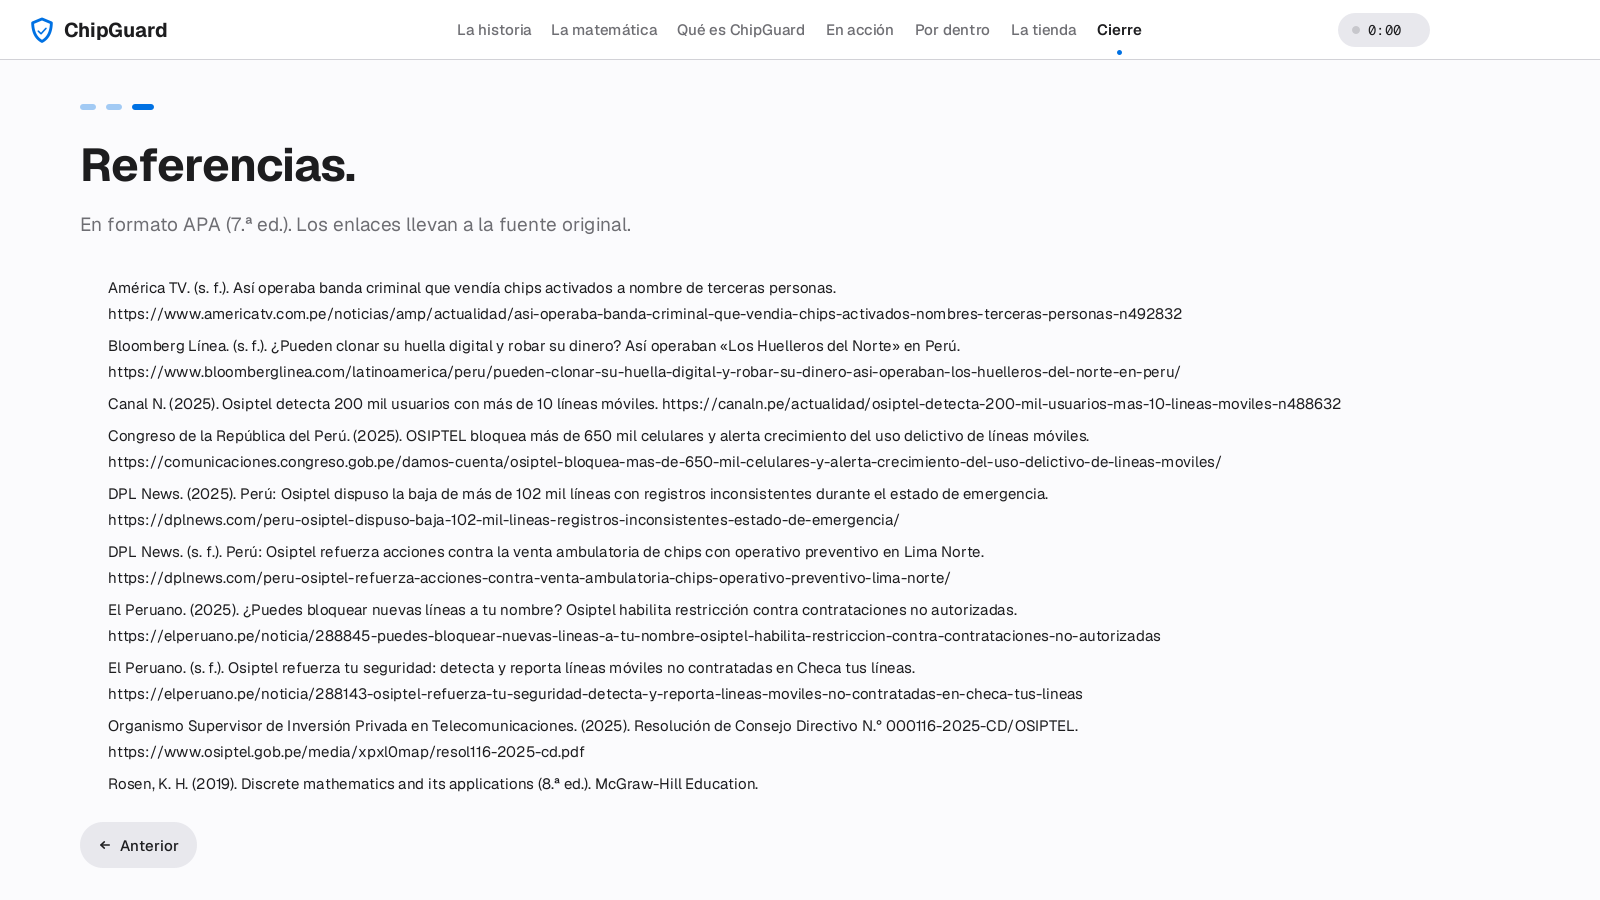
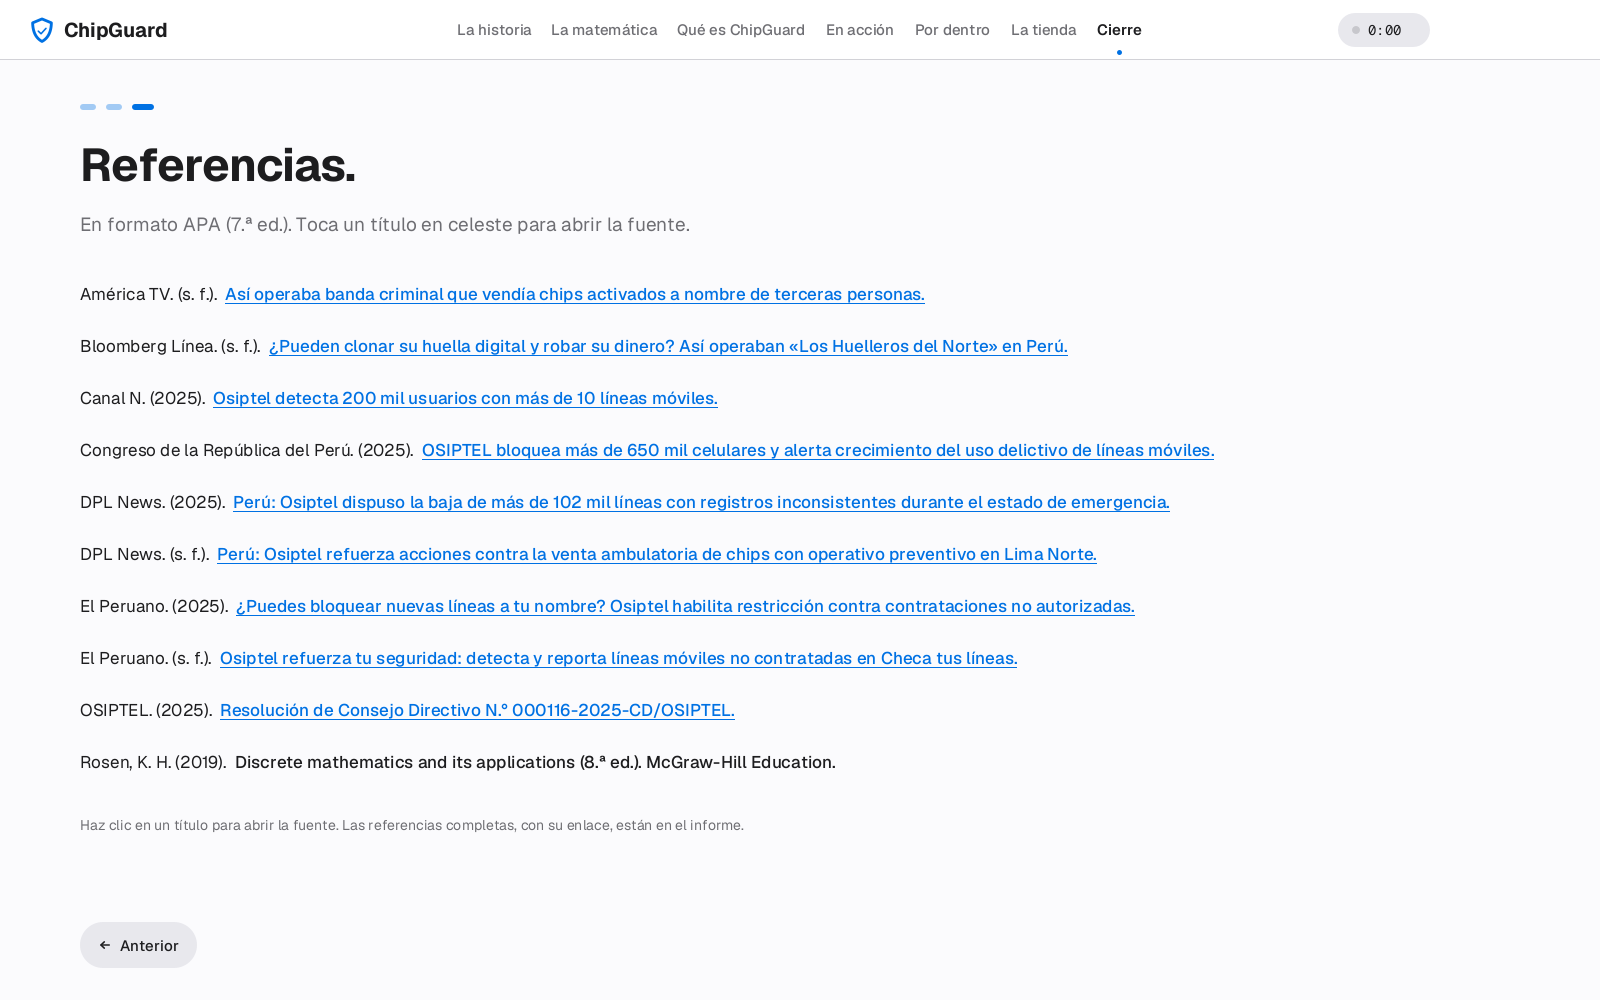
fix: referencias con título clicable en celeste, sin URLs largas y sin desbordar la pantalla

diff --git a/src/simuchip/ui/PanelCierre.java b/src/simuchip/ui/PanelCierre.java
@@ -14,7 +14,7 @@ public final class PanelCierre extends PanelEscenas {
             new Escena("¿Ya revisaste tus líneas?",
                 "Saca tu celular ahora: busca «Checa tus líneas» de OSIPTEL y pon tu DNI. Si aparece un chip que no es "
                     + "tuyo, repórtalo ahí mismo. Hoy lo haces a mano; con ChipGuard te avisaría solo."),
-            new Escena("Referencias.", "En formato APA (7.ª ed.). Los enlaces llevan a la fuente original.", true)
+            new Escena("Referencias.", "En formato APA (7.ª ed.). Toca un título en celeste para abrir la fuente.", true)
         ));
     }
 
@@ -65,25 +65,123 @@ public final class PanelCierre extends PanelEscenas {
         Tema.textoCentrado(g, "las líneas que el registro manda hacia tu DNI", a.getCenterX(), a.getCenterY() + 70);
     }
 
-    private void fuentes(Graphics2D g, Rectangle a, double t) {
-        String[] lista = {
-            "América TV. (s. f.). Así operaba banda criminal que vendía chips activados a nombre de terceras personas. https://www.americatv.com.pe/noticias/amp/actualidad/asi-operaba-banda-criminal-que-vendia-chips-activados-nombres-terceras-personas-n492832",
-            "Bloomberg Línea. (s. f.). ¿Pueden clonar su huella digital y robar su dinero? Así operaban «Los Huelleros del Norte» en Perú. https://www.bloomberglinea.com/latinoamerica/peru/pueden-clonar-su-huella-digital-y-robar-su-dinero-asi-operaban-los-huelleros-del-norte-en-peru/",
-            "Canal N. (2025). Osiptel detecta 200 mil usuarios con más de 10 líneas móviles. https://canaln.pe/actualidad/osiptel-detecta-200-mil-usuarios-mas-10-lineas-moviles-n488632",
-            "Congreso de la República del Perú. (2025). OSIPTEL bloquea más de 650 mil celulares y alerta crecimiento del uso delictivo de líneas móviles. https://comunicaciones.congreso.gob.pe/damos-cuenta/osiptel-bloquea-mas-de-650-mil-celulares-y-alerta-crecimiento-del-uso-delictivo-de-lineas-moviles/",
-            "DPL News. (2025). Perú: Osiptel dispuso la baja de más de 102 mil líneas con registros inconsistentes durante el estado de emergencia. https://dplnews.com/peru-osiptel-dispuso-baja-102-mil-lineas-registros-inconsistentes-estado-de-emergencia/",
-            "DPL News. (s. f.). Perú: Osiptel refuerza acciones contra la venta ambulatoria de chips con operativo preventivo en Lima Norte. https://dplnews.com/peru-osiptel-refuerza-acciones-contra-venta-ambulatoria-chips-operativo-preventivo-lima-norte/",
-            "El Peruano. (2025). ¿Puedes bloquear nuevas líneas a tu nombre? Osiptel habilita restricción contra contrataciones no autorizadas. https://elperuano.pe/noticia/288845-puedes-bloquear-nuevas-lineas-a-tu-nombre-osiptel-habilita-restriccion-contra-contrataciones-no-autorizadas",
-            "El Peruano. (s. f.). Osiptel refuerza tu seguridad: detecta y reporta líneas móviles no contratadas en Checa tus líneas. https://elperuano.pe/noticia/288143-osiptel-refuerza-tu-seguridad-detecta-y-reporta-lineas-moviles-no-contratadas-en-checa-tus-lineas",
-            "Organismo Supervisor de Inversión Privada en Telecomunicaciones. (2025). Resolución de Consejo Directivo N.° 000116-2025-CD/OSIPTEL. https://www.osiptel.gob.pe/media/xpxl0map/resol116-2025-cd.pdf",
-            "Rosen, K. H. (2019). Discrete mathematics and its applications (8.ª ed.). McGraw-Hill Education."
+    /** Autor y año (APA), título y enlace de cada referencia. */
+    private static final String[][] REFERENCIAS = {
+        {"América TV. (s. f.).", "Así operaba banda criminal que vendía chips activados a nombre de terceras personas.",
+            "https://www.americatv.com.pe/noticias/amp/actualidad/asi-operaba-banda-criminal-que-vendia-chips-activados-nombres-terceras-personas-n492832"},
+        {"Bloomberg Línea. (s. f.).", "¿Pueden clonar su huella digital y robar su dinero? Así operaban «Los Huelleros del Norte» en Perú.",
+            "https://www.bloomberglinea.com/latinoamerica/peru/pueden-clonar-su-huella-digital-y-robar-su-dinero-asi-operaban-los-huelleros-del-norte-en-peru/"},
+        {"Canal N. (2025).", "Osiptel detecta 200 mil usuarios con más de 10 líneas móviles.",
+            "https://canaln.pe/actualidad/osiptel-detecta-200-mil-usuarios-mas-10-lineas-moviles-n488632"},
+        {"Congreso de la República del Perú. (2025).", "OSIPTEL bloquea más de 650 mil celulares y alerta crecimiento del uso delictivo de líneas móviles.",
+            "https://comunicaciones.congreso.gob.pe/damos-cuenta/osiptel-bloquea-mas-de-650-mil-celulares-y-alerta-crecimiento-del-uso-delictivo-de-lineas-moviles/"},
+        {"DPL News. (2025).", "Perú: Osiptel dispuso la baja de más de 102 mil líneas con registros inconsistentes durante el estado de emergencia.",
+            "https://dplnews.com/peru-osiptel-dispuso-baja-102-mil-lineas-registros-inconsistentes-estado-de-emergencia/"},
+        {"DPL News. (s. f.).", "Perú: Osiptel refuerza acciones contra la venta ambulatoria de chips con operativo preventivo en Lima Norte.",
+            "https://dplnews.com/peru-osiptel-refuerza-acciones-contra-venta-ambulatoria-chips-operativo-preventivo-lima-norte/"},
+        {"El Peruano. (2025).", "¿Puedes bloquear nuevas líneas a tu nombre? Osiptel habilita restricción contra contrataciones no autorizadas.",
+            "https://elperuano.pe/noticia/288845-puedes-bloquear-nuevas-lineas-a-tu-nombre-osiptel-habilita-restriccion-contra-contrataciones-no-autorizadas"},
+        {"El Peruano. (s. f.).", "Osiptel refuerza tu seguridad: detecta y reporta líneas móviles no contratadas en Checa tus líneas.",
+            "https://elperuano.pe/noticia/288143-osiptel-refuerza-tu-seguridad-detecta-y-reporta-lineas-moviles-no-contratadas-en-checa-tus-lineas"},
+        {"OSIPTEL. (2025).", "Resolución de Consejo Directivo N.° 000116-2025-CD/OSIPTEL.",
+            "https://www.osiptel.gob.pe/media/xpxl0map/resol116-2025-cd.pdf"},
+        {"Rosen, K. H. (2019).", "Discrete mathematics and its applications (8.ª ed.). McGraw-Hill Education.", null}
+    };
+
+    /** Zonas clicables de los títulos, del último dibujo de la escena de referencias. */
+    private final java.util.List<Rectangle> zonas = new java.util.ArrayList<>();
+    private final java.util.List<String> enlaces = new java.util.ArrayList<>();
+
+    {
+        java.awt.event.MouseAdapter raton = new java.awt.event.MouseAdapter() {
+            @Override
+            public void mousePressed(java.awt.event.MouseEvent e) {
+                String url = enlaceEn(e.getX(), e.getY());
+                if (url != null) {
+                    abrir(url);
+                }
+            }
+
+            @Override
+            public void mouseMoved(java.awt.event.MouseEvent e) {
+                setCursor(java.awt.Cursor.getPredefinedCursor(enlaceEn(e.getX(), e.getY()) != null
+                        ? java.awt.Cursor.HAND_CURSOR : java.awt.Cursor.DEFAULT_CURSOR));
+            }
         };
-        int y = a.y;
-        g.setFont(Tema.letra(Font.PLAIN, 15f));
-        for (int k = 0; k < lista.length; k++) {
-            double p = tramo(t, 0.1 + k * 0.08, 0.4);
-            g.setColor(Tema.conAlfa(Tema.AZUL_NOCHE, (int) (255 * p)));
-            y += Tema.parrafo(g, lista[k], a.x + 28, y, a.width - 28, 1.22f) + 6;
+        addMouseListener(raton);
+        addMouseMotionListener(raton);
+    }
+
+    @Override
+    public void irAEscena(int i) {
+        zonas.clear();
+        enlaces.clear();
+        super.irAEscena(i);
+    }
+
+    private String enlaceEn(int x, int y) {
+        for (int k = 0; k < zonas.size(); k++) {
+            if (zonas.get(k).contains(x, y)) {
+                return enlaces.get(k);
+            }
         }
+        return null;
+    }
+
+    /** Abre el enlace en el navegador; en Linux, si Desktop no puede, usa xdg-open. */
+    private static void abrir(String url) {
+        new Thread(() -> {
+            try {
+                if (java.awt.Desktop.isDesktopSupported()
+                        && java.awt.Desktop.getDesktop().isSupported(java.awt.Desktop.Action.BROWSE)) {
+                    java.awt.Desktop.getDesktop().browse(new java.net.URI(url));
+                } else {
+                    new ProcessBuilder("xdg-open", url).start();
+                }
+            } catch (Exception ex) {
+                try {
+                    new ProcessBuilder("xdg-open", url).start();
+                } catch (java.io.IOException ignorada) {
+                    // sin navegador: no hay nada más que hacer
+                }
+            }
+        }).start();
+    }
+
+    private void fuentes(Graphics2D g, Rectangle a, double t) {
+        zonas.clear();
+        enlaces.clear();
+        Font autor = Tema.letra(Font.PLAIN, 17f);
+        Font titulo = Tema.medio(17f);
+        int alto = Math.min(52, a.height / REFERENCIAS.length);
+        int lh = g.getFontMetrics(autor).getHeight();
+        for (int k = 0; k < REFERENCIAS.length; k++) {
+            double p = tramo(t, 0.1 + k * 0.06, 0.35);
+            int y = a.y + k * alto + lh;
+            g.setFont(autor);
+            g.setColor(Tema.conAlfa(Tema.AZUL_NOCHE, (int) (255 * p)));
+            Tema.texto(g, REFERENCIAS[k][0], a.x, y);
+            int x = a.x + g.getFontMetrics(autor).stringWidth(REFERENCIAS[k][0]) + 8;
+            g.setFont(titulo);
+            String tit = REFERENCIAS[k][1];
+            java.awt.FontMetrics fm = g.getFontMetrics(titulo);
+            int disponible = a.x + a.width - x;
+            while (fm.stringWidth(tit) > disponible && tit.length() > 10) {
+                tit = tit.substring(0, tit.lastIndexOf(' ', tit.length() - 2)) + "…";
+            }
+            boolean enlace = REFERENCIAS[k][2] != null;
+            g.setColor(Tema.conAlfa(enlace ? Tema.AZUL : Tema.AZUL_NOCHE, (int) (255 * p)));
+            Tema.texto(g, tit, x, y);
+            if (enlace) {
+                int w = fm.stringWidth(tit);
+                g.fillRect(x, y + 3, w, 1);
+                zonas.add(new Rectangle(x, y - fm.getAscent(), w, fm.getHeight()));
+                enlaces.add(REFERENCIAS[k][2]);
+            }
+        }
+        g.setFont(Tema.letra(Font.PLAIN, 14f));
+        g.setColor(Tema.TEXTO_SUAVE);
+        Tema.texto(g, "Haz clic en un título para abrir la fuente. Las referencias completas, con su enlace, están en el informe.",
+                a.x, a.y + REFERENCIAS.length * alto + lh + 10);
     }
 }
